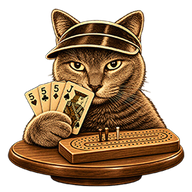
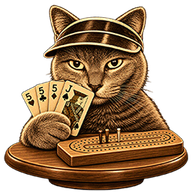
iconography 2

diff --git a/sw.js b/sw.js
@@ -1,6 +1,6 @@
 // Offline support: keeps a copy of the game on the device.  Generated by tools/build_sw.py.
 // Code: (c) Corey J Ruff
-const CACHE = "eyton-cribbage-a7ae3c07e6";
+const CACHE = "eyton-cribbage-a5219f0615";
 const FILES = [
   "./",
   "assets/about.webp",
